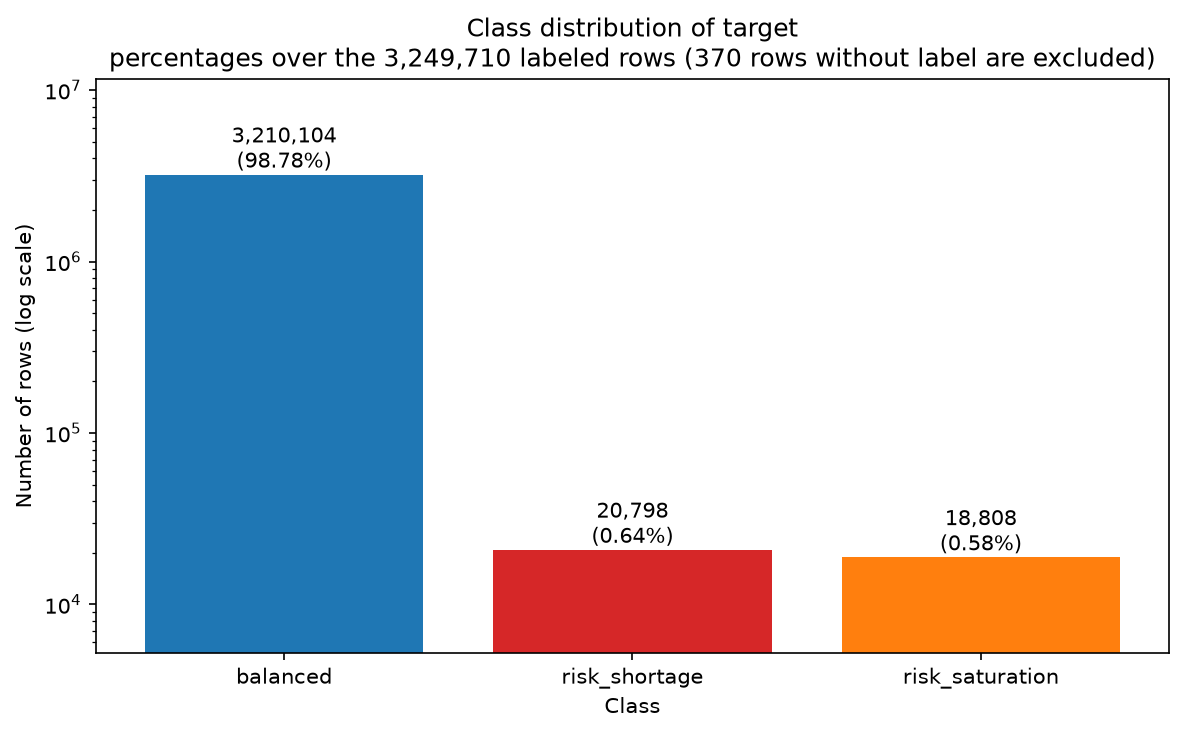
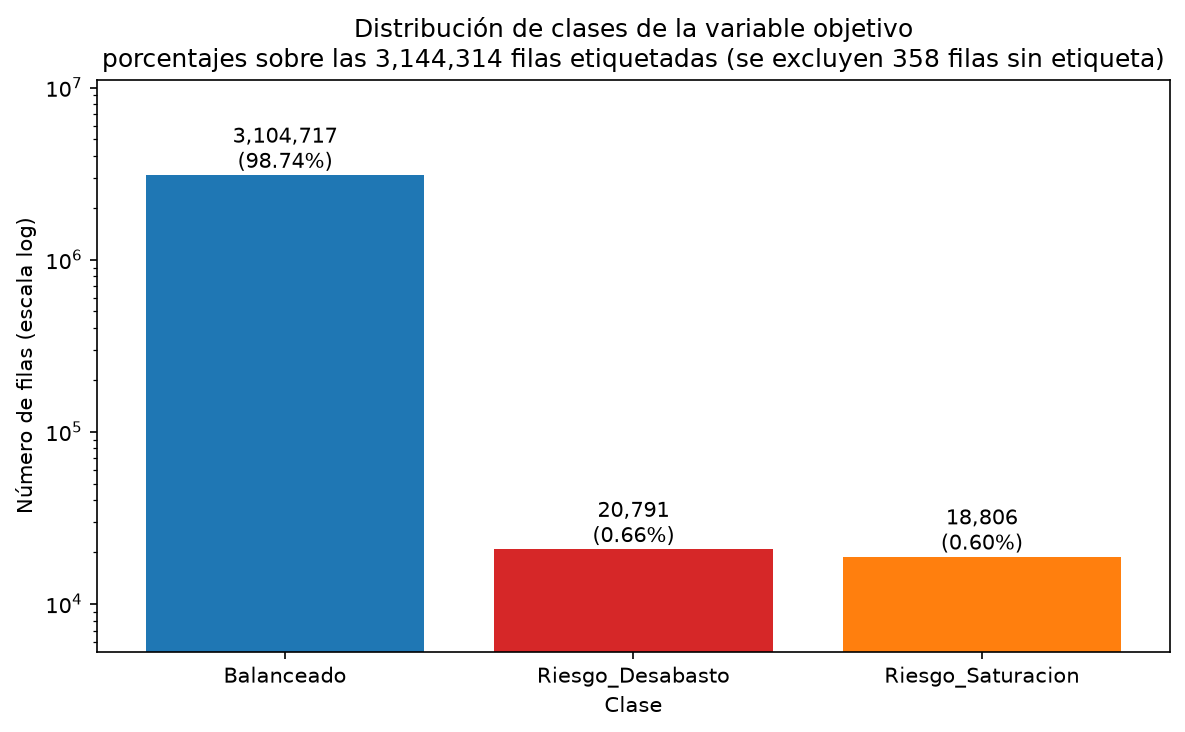
fix(plots): label every figure in Spanish
The figures are content of the Spanish deliverable, so every title, axis and legend is in Spanish while the code stays English. The excluded-rows count in the class title is now computed from the data instead of hardcoded.

diff --git a/tc5061_proyecto_equipo5/plots.py b/tc5061_proyecto_equipo5/plots.py
@@ -67,8 +67,9 @@ FEATURE_COLUMNS = [
 # 0 = balanced, 1 = risk_shortage, 2 = risk_saturation
 CLASS_LABELS = {0: "balanced", 1: "risk_shortage", 2: "risk_saturation"}
 CLASS_COLORS = {0: "tab:blue", 1: "tab:red", 2: "tab:orange"}
-# Spanish names for the figure that goes into the Spanish study-period report
-PROXY_CLASS_LABELS = {0: "Balanceado", 1: "Riesgo_Desabasto", 2: "Riesgo_Saturacion"}
+# Figures are always labeled in Spanish (they go into the Spanish report).
+# The English names above stay as identifiers for the CSV keys.
+CLASS_LABELS_ES = {0: "Balanceado", 1: "Riesgo_Desabasto", 2: "Riesgo_Saturacion"}
 
 
 def load_features(path: Path) -> pd.DataFrame:
@@ -97,7 +98,7 @@ def plot_class_distribution(frame: pd.DataFrame, output_dir: Path) -> None:
     """
     counts = frame.loc[frame["target"].notna(), "target"].value_counts().sort_index()
     total = int(counts.sum())
-    labels = [CLASS_LABELS[value] for value in counts.index]
+    labels = [CLASS_LABELS_ES[value] for value in counts.index]
     colors = [CLASS_COLORS[value] for value in counts.index]
 
     fig, ax = plt.subplots(figsize=(8, 5))
@@ -112,11 +113,12 @@ def plot_class_distribution(frame: pd.DataFrame, output_dir: Path) -> None:
             fontsize=10,
         )
     ax.set_yscale("log")
-    ax.set_xlabel("Class")
-    ax.set_ylabel("Number of rows (log scale)")
+    ax.set_xlabel("Clase")
+    ax.set_ylabel("Número de filas (escala log)")
+    missing = int(frame["target"].isna().sum())
     ax.set_title(
-        f"Class distribution of target\npercentages over the {total:,} labeled rows "
-        "(370 rows without label are excluded)"
+        f"Distribución de clases de la variable objetivo\nporcentajes sobre las {total:,} filas "
+        f"etiquetadas (se excluyen {missing:,} filas sin etiqueta)"
     )
     ax.margins(y=0.25)
     save_figure(fig, output_dir, "class_distribution.png")
@@ -131,21 +133,21 @@ def plot_net_flow_histogram(frame: pd.DataFrame, output_dir: Path) -> None:
         color="tab:red",
         linestyle="--",
         linewidth=1.5,
-        label=f"shortage threshold ({-RISK_THRESHOLD:+.2f})",
+        label=f"Umbral desabasto ({-RISK_THRESHOLD:+.2f})",
     )
     ax.axvline(
         RISK_THRESHOLD,
         color="tab:orange",
         linestyle="--",
         linewidth=1.5,
-        label=f"saturation threshold ({RISK_THRESHOLD:+.2f})",
+        label=f"Umbral saturación ({RISK_THRESHOLD:+.2f})",
     )
     ax.set_yscale("log")
     ax.set_xlim(-2, 2)
-    ax.set_xlabel("net_flow = (arrivals - departures) / capacity")
-    ax.set_ylabel("Number of station-hours (log scale)")
-    ax.set_title("Distribution of net_flow (x-axis clipped to [-2, 2])")
-    ax.legend(title="RISK_THRESHOLD = 0.40")
+    ax.set_xlabel("Flujo neto = (llegadas - salidas) / capacidad")
+    ax.set_ylabel("Número de estaciones-hora (escala log)")
+    ax.set_title("Distribución del flujo neto (eje x recortado a [-2, 2])")
+    ax.legend(title="Umbral de riesgo = 0.40")
     save_figure(fig, output_dir, "net_flow_histogram.png")
 
 
@@ -172,9 +174,9 @@ def plot_missing_values(frame: pd.DataFrame, output_dir: Path) -> None:
                 textcoords="offset points",
             )
     ax.invert_yaxis()
-    ax.set_xlabel("Number of NaN rows")
-    ax.set_ylabel("Feature column")
-    ax.set_title("Missing values per feature column (warm-up of the lagged features)")
+    ax.set_xlabel("Número de filas con NaN")
+    ax.set_ylabel("Variable")
+    ax.set_title("Valores faltantes por variable (calentamiento de los rezagos)")
     save_figure(fig, output_dir, "missing_values.png")
 
 
@@ -186,9 +188,9 @@ def plot_hourly_net_flow(frame: pd.DataFrame, output_dir: Path) -> None:
     ax.bar(hourly.index, hourly.to_numpy(), color="tab:blue")
     ax.axhline(0, color="black", linewidth=0.8)
     ax.set_xticks(range(24))
-    ax.set_xlabel("Hour of day")
-    ax.set_ylabel("Average net_flow")
-    ax.set_title("Average net_flow by hour of day (0-23)")
+    ax.set_xlabel("Hora del día")
+    ax.set_ylabel("Flujo neto promedio")
+    ax.set_title("Flujo neto promedio por hora del día (0-23)")
     save_figure(fig, output_dir, "hourly_net_flow.png")
 
 
@@ -196,16 +198,16 @@ def plot_class_vs_lag(frame: pd.DataFrame, output_dir: Path) -> None:
     """Average net_flow_lag1 per class, to show the lag separates the classes."""
     labeled = frame.dropna(subset=["net_flow_lag1", "target"])
     means = labeled.groupby("target")["net_flow_lag1"].mean().sort_index()
-    labels = [CLASS_LABELS[value] for value in means.index]
+    labels = [CLASS_LABELS_ES[value] for value in means.index]
     colors = [CLASS_COLORS[value] for value in means.index]
 
     fig, ax = plt.subplots(figsize=(8, 5))
     bars = ax.bar(labels, means.to_numpy(), color=colors)
     ax.bar_label(bars, fmt="%.3f", padding=3, fontsize=10)
     ax.axhline(0, color="black", linewidth=0.8)
-    ax.set_xlabel("Class (target)")
-    ax.set_ylabel("Average net_flow_lag1 (previous hour)")
-    ax.set_title("Average net_flow_lag1 per class: the lag separates the classes")
+    ax.set_xlabel("Clase (variable objetivo)")
+    ax.set_ylabel("Flujo neto del rezago 1 (promedio)")
+    ax.set_title("Flujo neto del rezago 1 por clase: el rezago separa las clases")
     save_figure(fig, output_dir, "class_vs_lag.png")
 
 
@@ -230,11 +232,11 @@ def plot_station_coverage(frame: pd.DataFrame, output_dir: Path) -> None:
         color="black",
         linestyle="--",
         linewidth=1.5,
-        label=f"full year ({total_hours:,} hours)",
+        label=f"año completo ({total_hours:,} horas)",
     )
-    ax.set_xlabel("Active hours per station (departures + arrivals > 0)")
-    ax.set_ylabel("Number of stations")
-    ax.set_title(f"Station coverage: active hours per station (out of {total_hours:,})")
+    ax.set_xlabel("Horas activas por estación (salidas + llegadas > 0)")
+    ax.set_ylabel("Número de estaciones")
+    ax.set_title(f"Cobertura por estación: horas activas (de {total_hours:,})")
     ax.legend()
     save_figure(fig, output_dir, "station_coverage.png")
 
@@ -250,7 +252,7 @@ def plot_proxy_distribution(frame: pd.DataFrame, output_dir: Path) -> None:
     total_labeled = len(labeled)
     counts = labeled.value_counts().sort_index()
     shares = 100 * counts / total_labeled
-    labels = [PROXY_CLASS_LABELS[value] for value in counts.index]
+    labels = [CLASS_LABELS_ES[value] for value in counts.index]
     colors = [CLASS_COLORS[value] for value in counts.index]
 
     fig, (left, right) = plt.subplots(1, 2, figsize=(14, 5.5))
